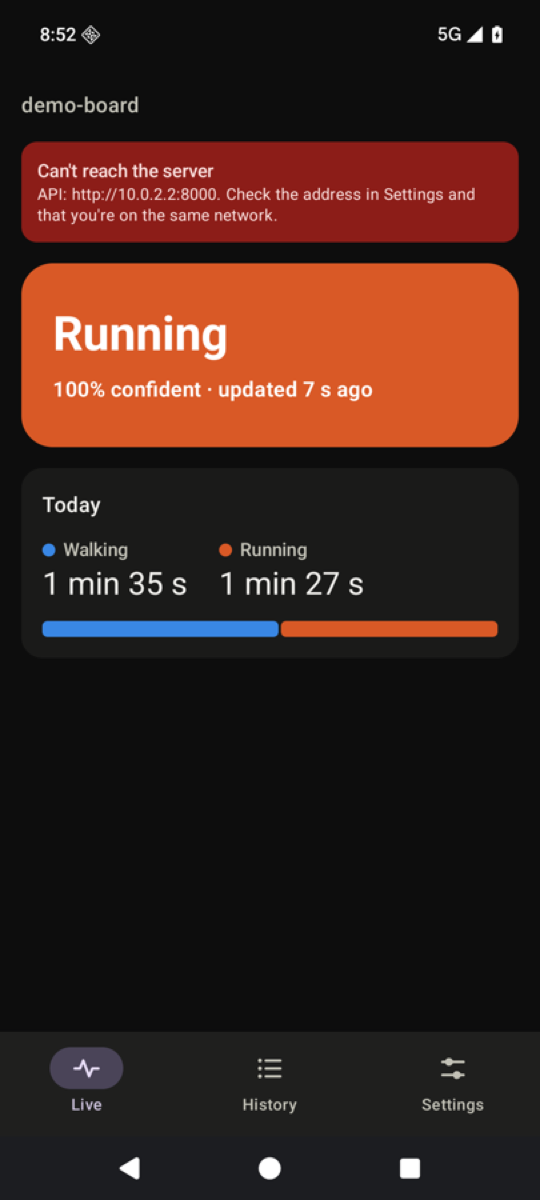
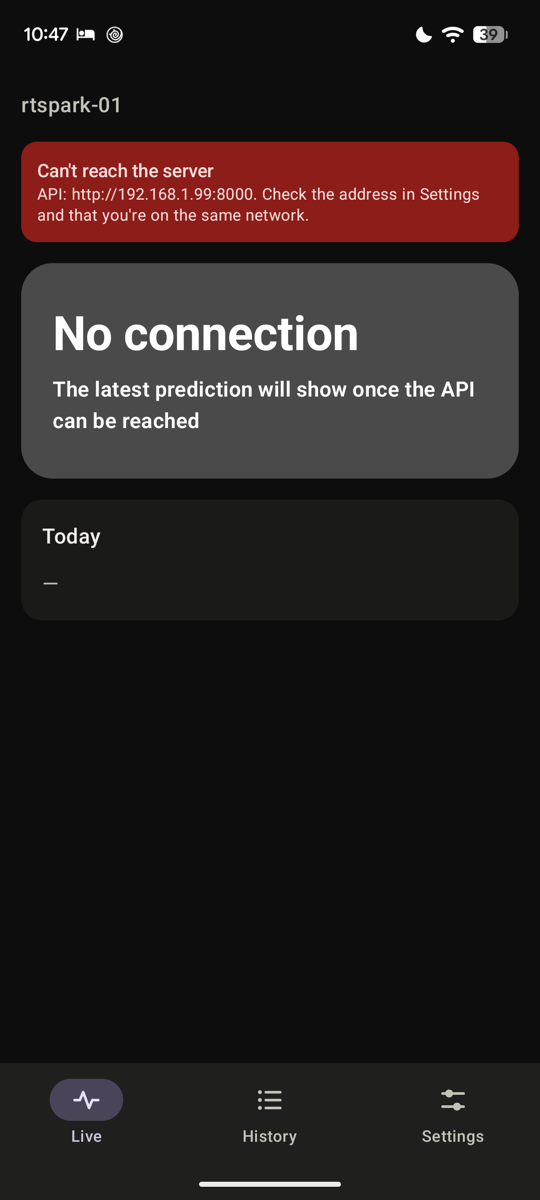
M8: final verification against the Azure deployment
docs/verification.md records the plan's checklist with measured results:
the board publishes valid 5-sample messages once per second, the database
grows 1 row/s, and after restarting the broker, database or classifier on
the VM, predictions resume within 7.2 s, 1.5 s and 3.6 s.

Found while testing: with the API unreachable and no prediction loaded,
the app said "No predictions for this device yet. Is the board on?",
blaming the board for a network problem. It now says "No connection";
the card text is a pure function with unit tests (27 tests).

README: Web API table, web page screenshot, app screenshots retaken on a
Pixel 7 with the board's real data, M8 status.

diff --git a/app/app/src/main/java/ph/edu/msuiit/activity/ui/live/LiveScreen.kt b/app/app/src/main/java/ph/edu/msuiit/activity/ui/live/LiveScreen.kt
@@ -83,14 +83,7 @@ private fun ActivityCard(state: LiveUiState) {
     val prediction = state.prediction
     val live = prediction != null && !state.isStale && state.status != LiveStatus.NoData
 
-    val (title, subtitle) = when {
-        state.status == LiveStatus.Loading -> "Connecting…" to "Asking the API for the latest prediction"
-        prediction == null -> "Waiting for data" to "No predictions for this device yet. Is the board on?"
-        state.isStale -> "No new data" to
-            "Last: ${activityName(prediction.activity)}, ${formatAgo(state.now - prediction.ts)}. Is the board on?"
-        else -> activityName(prediction.activity) to
-            "${(prediction.confidence * 100).toInt()}% confident · updated ${formatAgo(state.now - prediction.ts)}"
-    }
+    val (title, subtitle) = activityCardText(state)
     val background by animateColorAsState(
         targetValue = if (live) colors.of(prediction.activity) else colors.inactive, // live ⇒ prediction != null
         label = "activity colour",
@@ -113,6 +106,24 @@ private fun ActivityCard(state: LiveUiState) {
             Spacer(Modifier.height(8.dp))
             Text(subtitle, style = MaterialTheme.typography.titleMedium, fontWeight = FontWeight.SemiBold)
         }
+    }
+}
+
+/**
+ * The activity card's title and subtitle. Without a prediction, an unreachable API is
+ * reported as such: it says nothing about whether the board is sending.
+ */
+internal fun activityCardText(state: LiveUiState): Pair<String, String> {
+    val prediction = state.prediction
+    return when {
+        state.status == LiveStatus.Loading -> "Connecting…" to "Asking the API for the latest prediction"
+        prediction == null && state.status is LiveStatus.Error ->
+            "No connection" to "The latest prediction will show once the API can be reached"
+        prediction == null -> "Waiting for data" to "No predictions for this device yet. Is the board on?"
+        state.isStale -> "No new data" to
+            "Last: ${activityName(prediction.activity)}, ${formatAgo(state.now - prediction.ts)}. Is the board on?"
+        else -> activityName(prediction.activity) to
+            "${(prediction.confidence * 100).toInt()}% confident · updated ${formatAgo(state.now - prediction.ts)}"
     }
 }
 

diff --git a/app/app/src/test/java/ph/edu/msuiit/activity/ui/live/ActivityCardTextTest.kt b/app/app/src/test/java/ph/edu/msuiit/activity/ui/live/ActivityCardTextTest.kt
@@ -1,0 +1,39 @@
+package ph.edu.msuiit.activity.ui.live
+
+import org.junit.Assert.assertEquals
+import org.junit.Test
+import ph.edu.msuiit.activity.data.Prediction
+
+class ActivityCardTextTest {
+
+    private val prediction = Prediction("idle", 0.97, 1_000_000)
+
+    @Test
+    fun livePrediction() {
+        val state = LiveUiState(prediction = prediction, status = LiveStatus.Ok, now = 1_003_000)
+        assertEquals("Idle" to "97% confident · updated 3 s ago", activityCardText(state))
+    }
+
+    @Test
+    fun unreachableApiWithoutPredictionDoesNotBlameTheBoard() {
+        val state = LiveUiState(status = LiveStatus.Error("Can't reach the server"))
+        assertEquals("No connection", activityCardText(state).first)
+    }
+
+    @Test
+    fun unreachableApiKeepsTheLastPrediction() {
+        val state = LiveUiState(prediction = prediction, status = LiveStatus.Error("timeout"), now = 1_002_000)
+        assertEquals("Idle", activityCardText(state).first)
+    }
+
+    @Test
+    fun noPredictionsYet() {
+        assertEquals("Waiting for data", activityCardText(LiveUiState(status = LiveStatus.NoData)).first)
+    }
+
+    @Test
+    fun stalePrediction() {
+        val state = LiveUiState(prediction = prediction, status = LiveStatus.Ok, now = 1_060_000)
+        assertEquals("No new data" to "Last: Idle, 1 min ago. Is the board on?", activityCardText(state))
+    }
+}

diff --git a/README.md b/README.md
@@ -27,7 +27,19 @@ flowchart LR
   API -- "HTTP/JSON" --> APP["Android app (Kotlin + Volley)"]
 ```
 
-Message formats, API endpoints and the database schema are in [docs/CONTRACTS.md](docs/CONTRACTS.md).
+Message formats, API endpoints and the database schema are in [docs/CONTRACTS.md](docs/CONTRACTS.md). The final end-to-end checks are in [docs/verification.md](docs/verification.md).
+
+### Web API
+
+All endpoints take `device_id` (e.g. `rtspark-01`) and return JSON; timestamps are Unix milliseconds. Full details in [CONTRACTS.md, section 4](docs/CONTRACTS.md#4-web-api-cloud--app).
+
+| Endpoint | Returns |
+|---|---|
+| `GET /api/health` | `{"status": "ok"}`, or 503 if the database is down |
+| `GET /api/latest?device_id=…` | The newest prediction: activity, confidence, time |
+| `GET /api/history?device_id=…&limit=50&before=<ts>` | Predictions, newest first, paged with `before` |
+| `GET /api/summary?device_id=…&date=YYYY-MM-DD` | Seconds per activity (walk, run, idle) on that day |
+| `GET /` | Live web page |
 
 ## Repository layout
 
@@ -51,11 +63,10 @@ Message formats, API endpoints and the database schema are in [docs/CONTRACTS.md
 - [x] M5: Android app
 - [x] M6: Deployed to an Azure VM
 - [x] M7: Own data recorded with the board; idle class added
-- [ ] M8: Final test, demo video
+- [x] M8: Final verification ([docs/verification.md](docs/verification.md))
+- [ ] Demo video
 
 ## Running it
-
-*Filled in as each part is built.*
 
 ### Cloud stack (local)
 
@@ -92,9 +103,11 @@ docker compose -f cloud/docker-compose.yml logs -f classifier                # o
 1. Start the stack and check the API and database are healthy.
 2. Check the broker rejects anonymous clients.
 3. Simulate a board that walks for 6 s and then runs for 6 s.
-4. Expect 11 stored predictions, a latest label of "run", both activities in the history, a matching daily summary, the web page loading, and a clean classifier log.
+4. Expect one stored prediction per message once the 4 s window is full (9 of 12), a latest label of "run", both activities in the history, a matching daily summary, the web page loading, and a clean classifier log.
 
-Replaying real dataset rows through the running stack, the label switched to "run" about 1 s after the data switched.
+Replaying real dataset rows through the running stack, the label switched to "run" about 2 s after the data switched.
+
+<img src="docs/web.png" width="360" alt="The live web page in dark mode: a green Idle label at 100% confidence, today's walking, running and idle totals, and a table of the ten most recent predictions">
 
 Port 8000 is used instead of 5000 because macOS reserves 5000 for AirPlay Receiver.
 
@@ -163,9 +176,11 @@ On macOS, the first time the board is plugged in you have to click **Allow** on 
 
 A native Android app (Kotlin, Jetpack Compose, Material 3) that polls the API with **Volley**, as the lab recommends. Minimum Android 8.0 (API 26).
 
-| Live | History | API unreachable (dark mode) |
+| Live | History | API unreachable |
 |---|---|---|
-| <img src="docs/app/live.png" width="240" alt="Live tab: a large orange card reading Running, 100% confident, updated just now, above today's walking and running totals"> | <img src="docs/app/history.png" width="240" alt="History tab: alternating Walking and Running stretches with time ranges, durations and average confidence"> | <img src="docs/app/offline-dark.png" width="240" alt="Live tab in dark mode with a red banner: Can't reach the server, while still showing the last prediction"> |
+| <img src="docs/app/live.png" width="240" alt="Live tab: a large green card reading Idle, 100% confident, updated 2 s ago, above today's walking, running and idle totals with a three-colour bar"> | <img src="docs/app/history.png" width="240" alt="History tab: stretches of Idle, Walking and Running from the board, each with a time range, duration and average confidence"> | <img src="docs/app/offline-dark.png" width="240" alt="Live tab with a red banner: Can't reach the server, and a grey card reading No connection"> |
+
+Screenshots from a Pixel 7 showing the board's real data through the Azure deployment.
 
 - **Live:** the current activity in a large card (blue for walking, orange for running, green for idle, grey when no data has arrived for 10 s), its confidence and age, and today's time per activity with a proportional bar. It polls `/api/latest` every second while visible and stops when the app is in the background.
 - **History:** the API's one-prediction-per-second records merged into stretches ("Running · 20:50:41 – 20:51:01 · 21 s · 99%"). Pull to refresh; older pages load as you scroll (`before=` paging).
@@ -174,7 +189,7 @@ A native Android app (Kotlin, Jetpack Compose, Material 3) that polls the API wi
 ```bash
 cd app
 ./gradlew installDebug          # build and install on a connected phone or a running emulator
-./gradlew testDebugUnitTest     # 22 unit tests: JSON parsing, history stretches, formatting, Live ViewModel
+./gradlew testDebugUnitTest     # 27 unit tests: JSON parsing, history stretches, formatting, Live ViewModel and card text
 ./gradlew lintDebug
 ```
 

diff --git a/docs/verification.md b/docs/verification.md
@@ -1,0 +1,23 @@
+# Final verification (M8)
+
+The checklist from the project plan, run against the Azure deployment on 2026-10-31, 22:38–22:48 (Manila), with the RT-Spark on home Wi-Fi and the 3-class model from M7. Each line says how it was checked and what came out.
+
+| # | Check | How | Result |
+|---|---|---|---|
+| 1 | The board publishes once per second in the contract format | Subscribed to `activity/rtspark-01/#` on the Azure broker for 30 s; every message validated with the classifier's own parser (`cloud/classifier/payload.py`) | ✅ 31 IMU messages, 0 invalid, 5 samples each at `rate_hz` 5, median interval 1.00 s (max 1.09 s). 30 predictions published back to the board |
+| 2 | `/api/latest` is live and follows the activity | `curl` against the VM; a walk → run replay of real Kaggle rows through the stack | ✅ Newest prediction 1.8 s old, response in 0.3 s. In the replay the label flipped to run about 2 s after the data did (4 s window). The board's own stream was classified idle at 99–100% throughout the check. Walk ↔ run with the board on the wrist: ⏳ shown in the demo video |
+| 3 | `/api/history` returns rows and the database grows once per second | `/api/summary` totals 30 s apart | ✅ 30 rows in 30.1 s (1.00 per second); history returns the newest rows first |
+| 4 | The app shows live data and history, and handles network loss | Pixel 7 (Android 17) on Wi-Fi, app on its default (Azure) address; then pointed at an unreachable address | ✅ Live, Today and History show the board's data ([screenshots](../README.md#android-app)). With the API unreachable, the app shows "Can't reach the server" and keeps running. On mobile data: ⏳ checked by hand |
+| 5 | The system recovers from restarts by itself | `docker compose restart <service>` on the VM, then waiting for the board's next stored prediction | ✅ broker: predictions resumed 7.2 s after the restart (the board and the classifier both reconnected), database: 1.5 s (the classifier retried the failed write), classifier: 3.6 s. Board Wi-Fi loss: ⏳ (the firmware rejoins, and after 20 s tries its other known networks) |
+| 6 | Tests pass; the ML report has every test protocol | GitHub Actions on `main`, plus local runs | ✅ API 19, classifier 36, ML 22, firmware host tests 19, Android 27 unit tests + lint, the Compose smoke test (CI and on the VM), and the firmware image build. The ML report covers unseen days, rotated devices, cross-wrist and board data (sections 4 and 10) |
+| 7 | No secrets or handout in the repository | `git ls-files` and the whole history checked for `.env`, `secrets.h`, `passwd`, PDFs, keystores and `ml/data/`; the real passwords searched for in every tracked file | ✅ None found |
+
+## Found and fixed during this check
+
+- **Misleading message when the API is unreachable.** With no prediction loaded yet, the app said "No predictions for this device yet. Is the board on?", which blamed the board for a network problem. It now says "No connection". The card text moved to `activityCardText()`, which has unit tests.
+- **Smoke test failing on the VM** (M7 deploy): `curl | grep -q` under `pipefail` failed once the web page outgrew one read. The script now fetches the whole response before matching it.
+
+## Numbers from the VM
+
+- 4 containers use about 400 MB of the VM's RAM (887 MB total, plus 2 GB swap).
+- One prediction takes about 0.01 ms in ONNX Runtime; the API answers in 0.1–0.3 s from the Philippines to East Asia.
